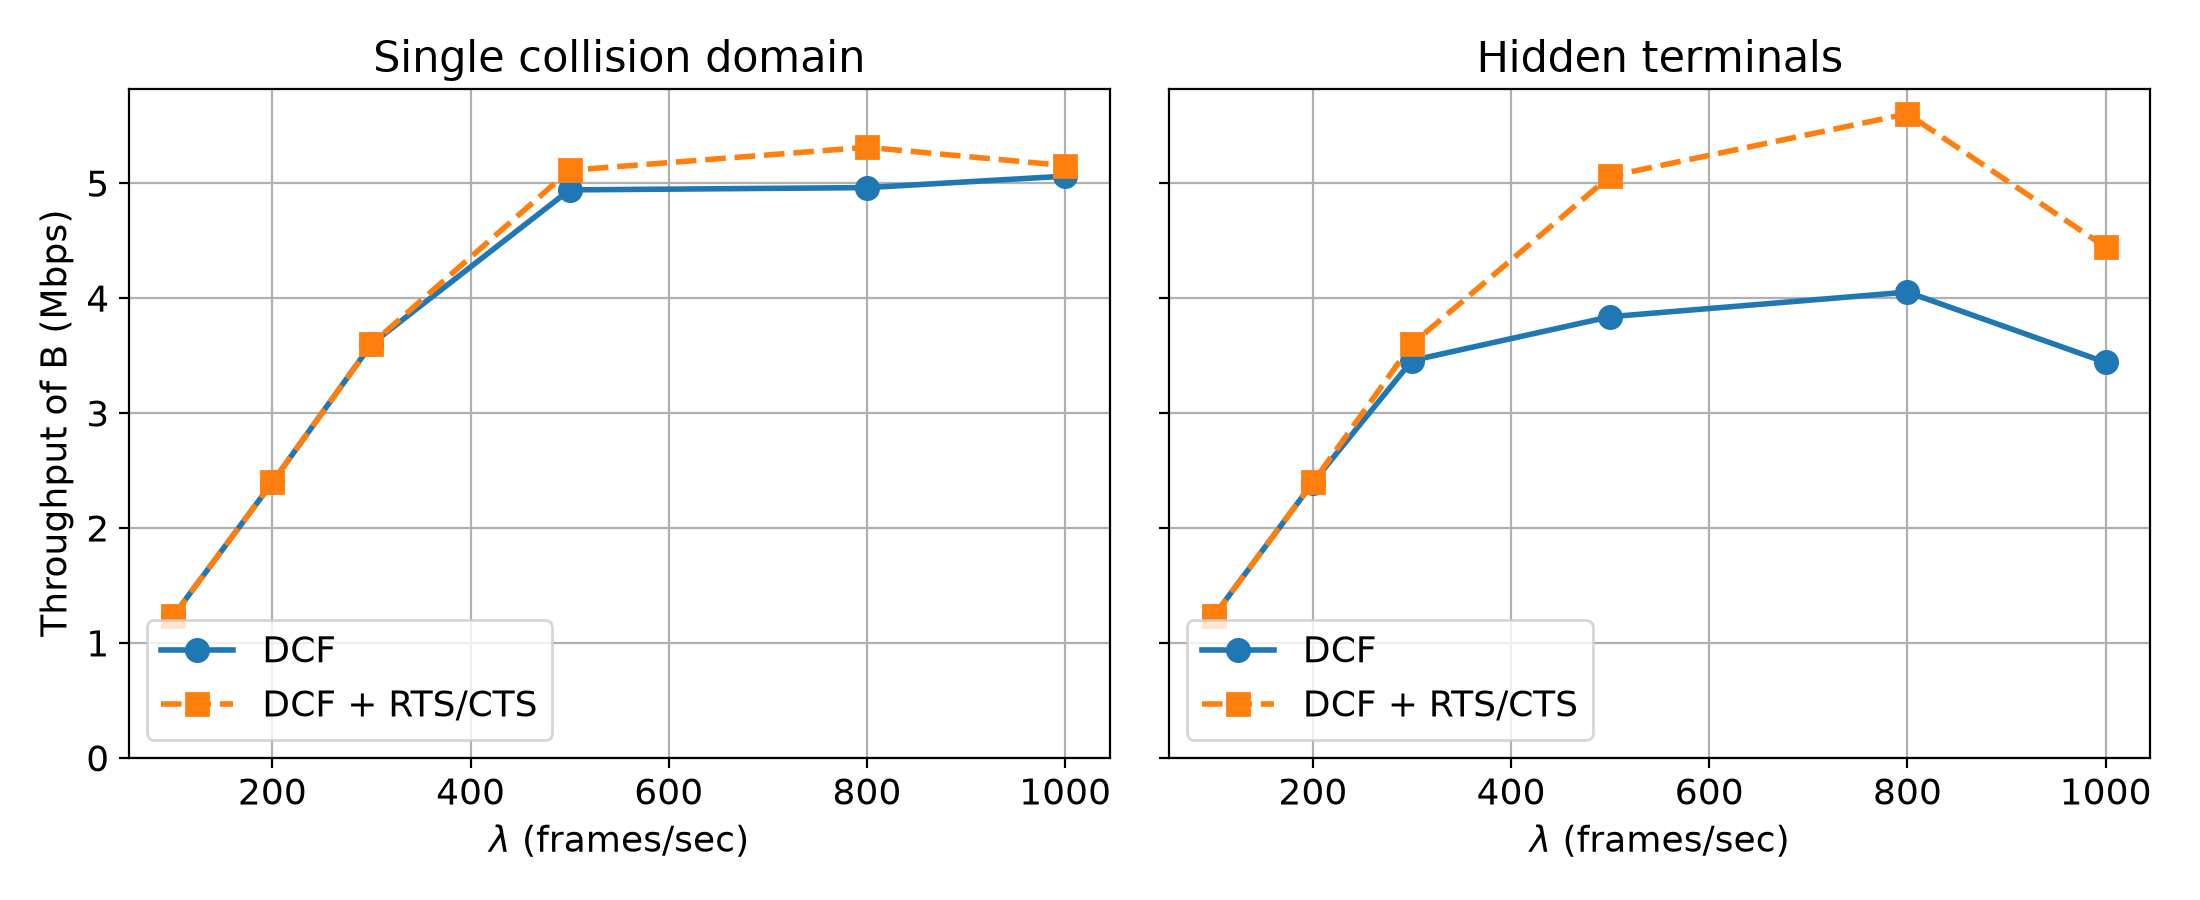
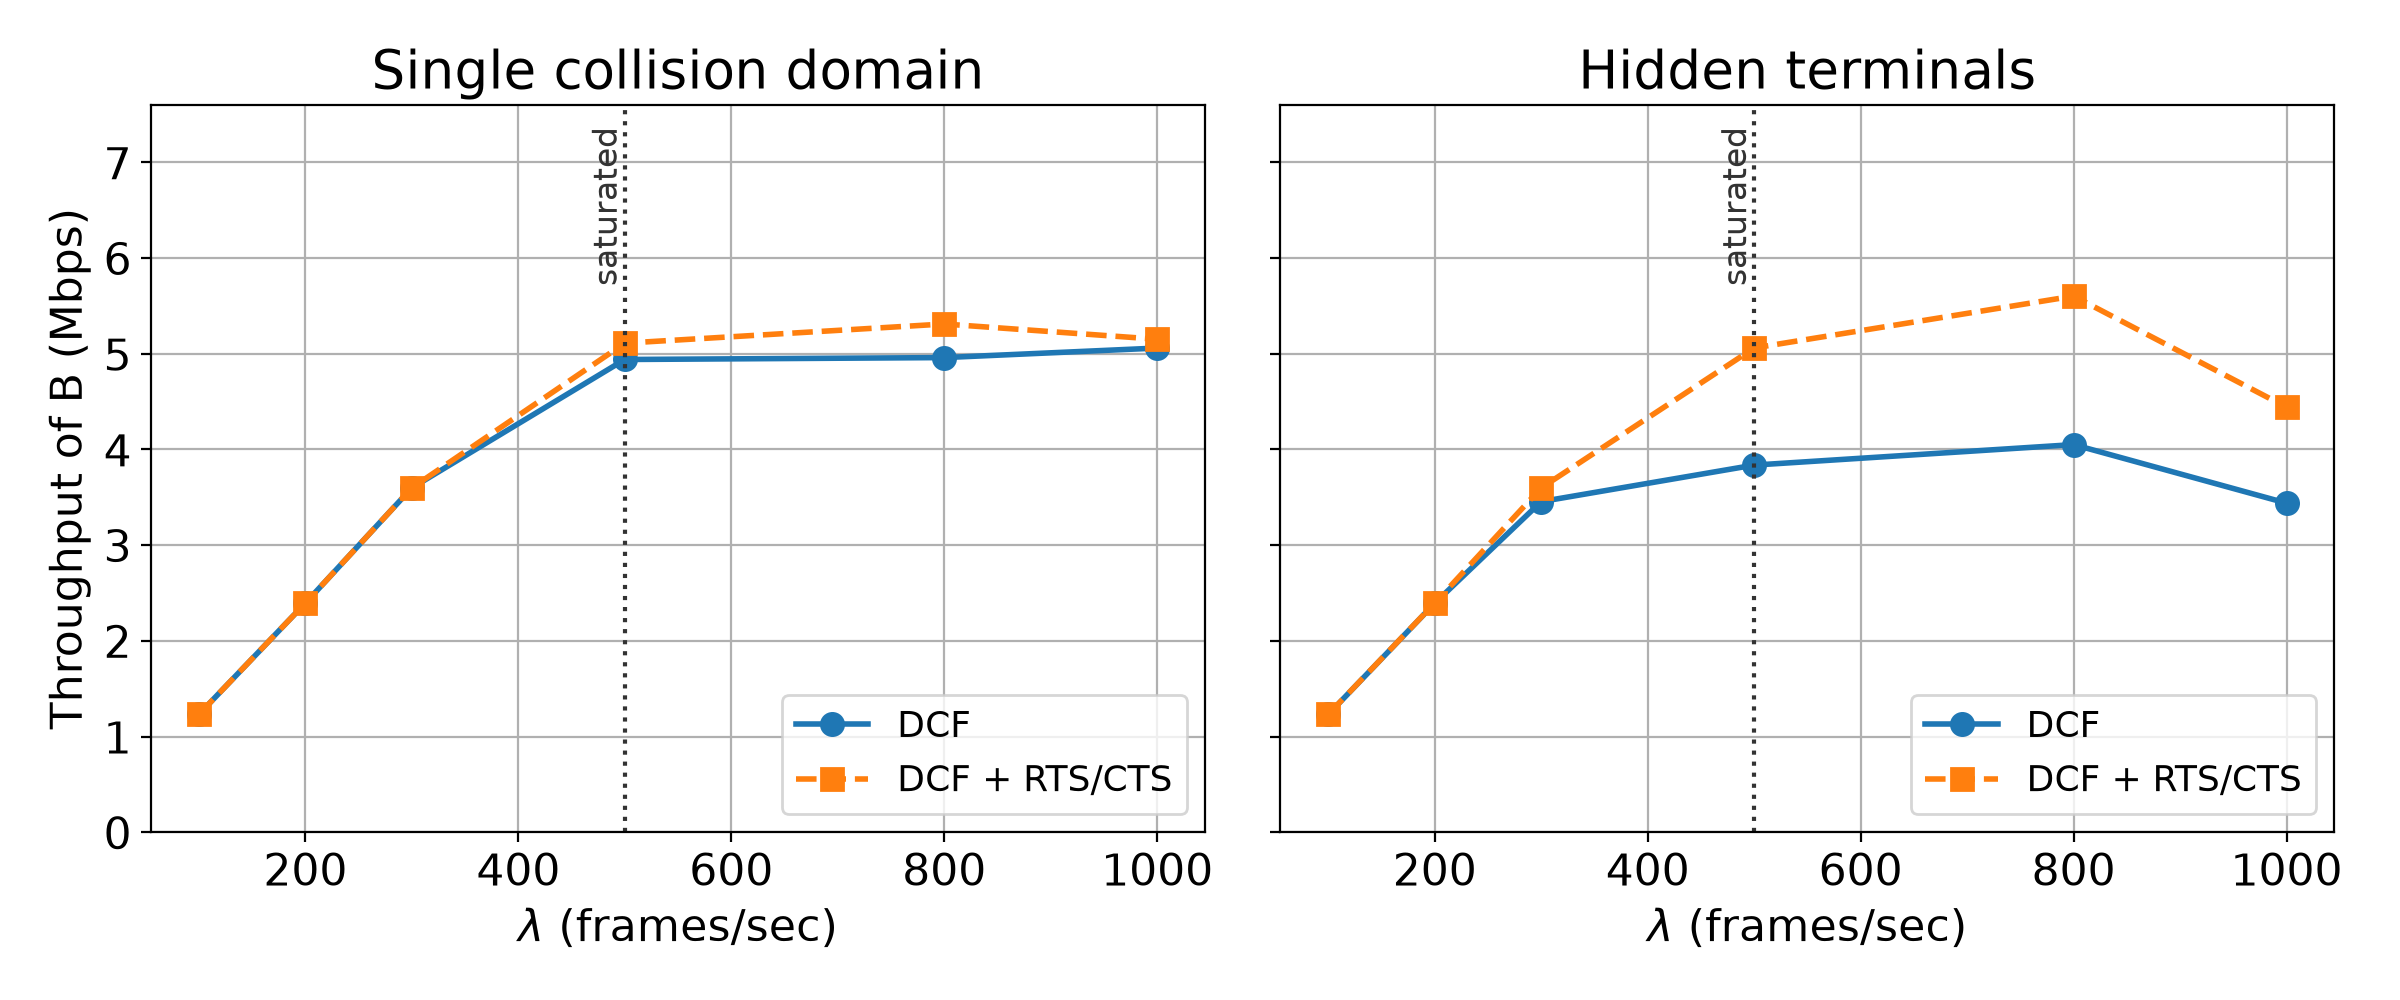
Add per-station metrics, saturation markers, and Part I delay plots
Record every backoff value a station draws and report per-station
collision probability and mean drawn backoff in results/part1.csv.
Label where each Part I throughput curve saturates relative to the
offered load, and add a station A versus station B throughput figure
and a mean packet delay figure. Enlarge fonts and figure sizes across
all plots and regenerate the figures.

diff --git a/experiments/part1.py b/experiments/part1.py
@@ -1,7 +1,8 @@
 """Part I: two-station CSMA/CA with and without RTS/CTS.
 
 Produces required plots 1 and 2: per-station throughput and collision
-probability versus lambda, for both topologies.
+probability versus lambda, for both topologies. Also produces a station A
+versus station B throughput comparison and mean packet delay versus lambda.
 
 Run with: python -m experiments.part1
 """
@@ -10,6 +11,7 @@ import matplotlib.pyplot as plt
 
 from macsim import config, plotting
 from macsim.dcf import Topology, simulate_dcf
+from macsim.metrics import offered_load_mbps
 
 from .common import averaged, series, write_csv
 
@@ -18,39 +20,76 @@ TOPOLOGIES = {
     Topology.HIDDEN_TERMINALS: "Hidden terminals",
 }
 PROTOCOLS = {"DCF": False, "DCF + RTS/CTS": True}
+STATIONS = ["A", "B"]
+RATES = config.PART1_ARRIVAL_RATES
+OFFERED = [offered_load_mbps(rate) for rate in RATES]  # per station
 
 
 def run() -> list[dict]:
     rows = []
     for topology in TOPOLOGIES:
         for protocol, rts_cts in PROTOCOLS.items():
-            for rate in config.PART1_ARRIVAL_RATES:
+            for rate in RATES:
                 m = averaged(simulate_dcf, num_stations=2, arrival_rate=rate, topology=topology, rts_cts=rts_cts)
-                rows.append(
-                    {
-                        "topology": topology.value,
-                        "protocol": protocol,
-                        "lambda": rate,
-                        "throughput_A_mbps": m["station_throughputs_mbps"][0],
-                        "throughput_B_mbps": m["station_throughputs_mbps"][1],
-                        "collision_probability": m["collision_probability"],
-                    }
-                )
+                row = {"topology": topology.value, "protocol": protocol, "lambda": rate}
+                for i, s in enumerate(STATIONS):
+                    row[f"throughput_{s}_mbps"] = m["station_throughputs_mbps"][i]
+                row["collision_probability"] = m["collision_probability"]
+                for i, s in enumerate(STATIONS):
+                    row[f"collision_probability_{s}"] = m["station_collision_probabilities"][i]
+                for i, s in enumerate(STATIONS):
+                    row[f"mean_backoff_{s}_slots"] = m["station_mean_backoffs"][i]
+                row["mean_delay_ms"] = m["mean_delay_ms"]
+                rows.append(row)
     return rows
 
 
-def plot(rows: list[dict], key: str, ylabel: str, name: str) -> None:
+def throughput_ylim(rows: list[dict]) -> float:
+    """Common upper y limit for the throughput figures, with headroom for the saturation labels."""
+    return 1.3 * max(row[f"throughput_{s}_mbps"] for row in rows for s in STATIONS)
+
+
+def plot(rows: list[dict], key: str, ylabel: str, name: str, saturation: bool = False, log: bool = False) -> None:
     """One panel per topology, one line per protocol."""
-    fig, axes = plt.subplots(1, 2, figsize=(11, 4.5), sharey=True)
+    fig, axes = plt.subplots(1, 2, figsize=(12, 5), sharey=True)
     for ax, (topology, title) in zip(axes, TOPOLOGIES.items()):
-        for protocol in PROTOCOLS:
-            y = series(rows, key, topology=topology.value, protocol=protocol)
-            ax.plot(config.PART1_ARRIVAL_RATES, y, label=protocol, **plotting.STYLES[protocol])
+        curves = {p: series(rows, key, topology=topology.value, protocol=p) for p in PROTOCOLS}
+        for protocol, y in curves.items():
+            ax.plot(RATES, y, label=protocol, **plotting.STYLES[protocol])
+        if saturation:
+            plotting.mark_saturation(ax, RATES, curves, OFFERED)
         ax.set_title(title)
         ax.set_xlabel(r"$\lambda$ (frames/sec)")
-        ax.legend()
+        ax.legend(loc="lower right" if saturation else "best")
     axes[0].set_ylabel(ylabel)
-    axes[0].set_ylim(bottom=0)
+    if log:
+        axes[0].set_yscale("log")
+    elif saturation:
+        axes[0].set_ylim(0, throughput_ylim(rows))
+    else:
+        axes[0].set_ylim(bottom=0)
+    plotting.save(fig, name)
+
+
+def plot_stations(rows: list[dict], name: str) -> None:
+    """One panel per protocol and topology, one line per station."""
+    fig, axes = plt.subplots(2, 2, figsize=(12, 9), sharex=True, sharey=True)
+    for row_axes, protocol in zip(axes, PROTOCOLS):
+        for ax, (topology, title) in zip(row_axes, TOPOLOGIES.items()):
+            curves = {
+                f"Station {s}": series(rows, f"throughput_{s}_mbps", topology=topology.value, protocol=protocol)
+                for s in STATIONS
+            }
+            for label, y in curves.items():
+                ax.plot(RATES, y, label=label, **plotting.STATION_STYLES[label])
+            plotting.mark_saturation(ax, RATES, curves, OFFERED, plotting.STATION_STYLES)
+            ax.set_title(f"{title}, {protocol}", fontsize=15)
+            ax.legend(loc="lower right")
+    for ax in axes[-1]:
+        ax.set_xlabel(r"$\lambda$ (frames/sec)")
+    for ax in axes[:, 0]:
+        ax.set_ylabel("Throughput (Mbps)")
+    axes[0, 0].set_ylim(0, throughput_ylim(rows))
     plotting.save(fig, name)
 
 
@@ -58,9 +97,11 @@ def main() -> None:
     plotting.apply_style()
     rows = run()
     write_csv("part1", rows)
-    plot(rows, "throughput_A_mbps", "Throughput of A (Mbps)", "part1_throughput_A")
-    plot(rows, "throughput_B_mbps", "Throughput of B (Mbps)", "part1_throughput_B")
+    plot(rows, "throughput_A_mbps", "Throughput of A (Mbps)", "part1_throughput_A", saturation=True)
+    plot(rows, "throughput_B_mbps", "Throughput of B (Mbps)", "part1_throughput_B", saturation=True)
+    plot_stations(rows, "part1_throughput_stations")
     plot(rows, "collision_probability", "Collision probability", "part1_collision")
+    plot(rows, "mean_delay_ms", "Mean packet delay (ms)", "part1_delay", log=True)
 
 
 if __name__ == "__main__":

diff --git a/macsim/plotting.py b/macsim/plotting.py
@@ -7,6 +7,8 @@ import matplotlib
 matplotlib.use("Agg")
 import matplotlib.pyplot as plt  # noqa: E402
 
+from . import config  # noqa: E402
+
 FIGURES_DIR = Path(__file__).resolve().parent.parent / "figures"
 
 # Plot kwargs per series; distinct markers and line styles for grayscale.
@@ -25,6 +27,11 @@ LOAD_STYLES = {
     800: dict(color="C1", linestyle="--", marker="s"),
 }
 
+# Part I figures that compare the two stations use one fixed color per station.
+STATION_STYLES = {
+    "Station A": dict(color="navy", linestyle="-", marker="o"),
+    "Station B": dict(color="crimson", linestyle="--", marker="s"),
+}
 
 def apply_style() -> None:
     """Set global rcParams (line width, marker size, font sizes, grid)."""
@@ -32,12 +39,42 @@ def apply_style() -> None:
         {
             "lines.linewidth": 2,
             "lines.markersize": 8,
-            "font.size": 13,
+            "font.size": 16,
+            "legend.fontsize": 13,
             "axes.grid": True,
             "figure.autolayout": True,
             "savefig.dpi": 200,
         }
     )
+
+
+def saturation_index(throughput, offered) -> int | None:
+    """Index of the first point where throughput < SATURATION_FRACTION * offered load."""
+    for k, (t, o) in enumerate(zip(throughput, offered)):
+        if t < config.SATURATION_FRACTION * o:
+            return k
+    return None
+
+
+def mark_saturation(ax, x, curves: dict, offered, styles: dict = STYLES) -> None:
+    """Label where each throughput curve saturates relative to the offered load.
+
+    `curves` maps a series label to its throughput values. A label takes the
+    color of its curve, or dark gray when several curves saturate at the same x.
+    """
+    points = {}
+    for label, y in curves.items():
+        k = saturation_index(y, offered)
+        if k is not None:
+            points.setdefault(x[k], []).append(label)
+    for xs, labels in points.items():
+        alone = len(labels) == 1 and len(curves) > 1
+        color = styles[labels[0]]["color"] if alone else "0.2"
+        ax.axvline(xs, color=color, linestyle=":", linewidth=1.5)
+        ax.text(
+            xs, 0.97, "saturated", color=color, fontsize=12, rotation=90,
+            ha="right", va="top", transform=ax.get_xaxis_transform(),
+        )
 
 
 def save(fig, name: str) -> None:

diff --git a/macsim/metrics.py b/macsim/metrics.py
@@ -16,7 +16,13 @@ class Results:
     attempts: list[int] = field(default_factory=list)
     collisions: list[int] = field(default_factory=list)
     delays: list[list[float]] = field(default_factory=list)  # slots, per station
+    backoffs: list[list[int]] = field(default_factory=list)  # drawn backoff values, per station
     trace: list[tuple] = field(default_factory=list)  # (slot, node, event), if requested
+
+
+def offered_load_mbps(rate: float) -> float:
+    """Offered load, in Mbps, of an arrival rate in frames/sec."""
+    return rate * config.DATA_FRAME_BITS / 1e6
 
 
 def station_throughputs_mbps(results: Results) -> list[float]:
@@ -34,6 +40,16 @@ def collision_probability(results: Results) -> float:
     """Collided attempts / total transmission attempts (Eq. 3)."""
     attempts = sum(results.attempts)
     return sum(results.collisions) / attempts if attempts else 0.0
+
+
+def station_collision_probabilities(results: Results) -> list[float]:
+    """Collided attempts / transmission attempts for each station."""
+    return [c / a if a else 0.0 for c, a in zip(results.collisions, results.attempts)]
+
+
+def station_mean_backoffs(results: Results) -> list[float]:
+    """Mean drawn backoff value, in slots, for each station."""
+    return [float(np.mean(b)) if len(b) else float("nan") for b in results.backoffs]
 
 
 def _all_delays_ms(results: Results) -> np.ndarray:
@@ -65,6 +81,8 @@ def summarize(results: Results) -> dict:
         "station_throughputs_mbps": throughputs,
         "throughput_mbps": sum(throughputs),
         "collision_probability": collision_probability(results),
+        "station_collision_probabilities": station_collision_probabilities(results),
+        "station_mean_backoffs": station_mean_backoffs(results),
         "mean_delay_ms": mean_delay_ms(results),
         "p95_delay_ms": p95_delay_ms(results),
         "jain_fairness": jain_fairness(throughputs),

diff --git a/tests/test_metrics.py b/tests/test_metrics.py
@@ -5,7 +5,14 @@ import pytest
 
 from macsim import config
 from macsim.dcf import Topology, simulate_dcf
-from macsim.metrics import Results, collision_probability, jain_fairness, network_throughput_mbps
+from macsim.metrics import (
+    Results,
+    collision_probability,
+    jain_fairness,
+    mean_delay_ms,
+    network_throughput_mbps,
+    station_throughputs_mbps,
+)
 from macsim.ofdma import simulate_ofdma
 from macsim.traffic import poisson_arrivals
 
@@ -39,6 +46,22 @@ def test_light_load_delivers_offered_traffic():
     r = simulate_dcf(5, 20, seed=0)
     offered_mbps = 5 * 20 * config.DATA_FRAME_BITS / 1e6
     assert network_throughput_mbps(r) == pytest.approx(offered_mbps, rel=0.1)
+
+
+@pytest.mark.parametrize("topology", list(Topology))
+@pytest.mark.parametrize("rts_cts", [False, True])
+def test_unsaturated_stations_each_deliver_offered_load(topology, rts_cts):
+    # lambda = 100 frames/sec * 12,000 bits = 1.2 Mbps per station, far below capacity.
+    r = simulate_dcf(2, 100, topology=topology, rts_cts=rts_cts, seed=0)
+    assert station_throughputs_mbps(r) == pytest.approx([1.2, 1.2], rel=0.1)
+
+
+def test_saturated_stations_deliver_less_with_longer_delay():
+    # lambda = 1000 frames/sec offers 12 Mbps per station: queues build up.
+    light = simulate_dcf(2, 100, seed=0)
+    heavy = simulate_dcf(2, 1000, seed=0)
+    assert all(t < 0.6 * 12 for t in station_throughputs_mbps(heavy))
+    assert mean_delay_ms(heavy) > 100 * mean_delay_ms(light)
 
 
 def test_ofdma_throughput_does_not_exceed_channel_capacity():

diff --git a/experiments/part2.py b/experiments/part2.py
@@ -41,24 +41,24 @@ def main() -> None:
     rows = run()
     write_csv("part2", rows)
 
-    fig, ax = plt.subplots(figsize=(6.5, 4.5))
+    fig, ax = plt.subplots(figsize=(7, 5))
     plot_vs_n(ax, rows, "throughput_mbps", r"$T_\mathrm{network}$ (Mbps)")
     ax.set_ylim(bottom=0)
     plotting.save(fig, "part2_throughput")
 
-    fig, ax = plt.subplots(figsize=(6.5, 4.5))
+    fig, ax = plt.subplots(figsize=(7, 5))
     plot_vs_n(ax, rows, "collision_probability", r"$P_\mathrm{collision}$")
     ax.set_ylim(bottom=0)
     plotting.save(fig, "part2_collision")
 
-    fig, axes = plt.subplots(1, 2, figsize=(11, 4.5), sharey=True)
+    fig, axes = plt.subplots(1, 2, figsize=(12, 5), sharey=True)
     plot_vs_n(axes[0], rows, "mean_delay_ms", "Mean packet delay (ms)")
     plot_vs_n(axes[1], rows, "p95_delay_ms", "95th-percentile packet delay (ms)")
     axes[0].set_yscale("log")
     axes[1].tick_params(labelleft=True)
     plotting.save(fig, "part2_delay")
 
-    fig, ax = plt.subplots(figsize=(6.5, 4.5))
+    fig, ax = plt.subplots(figsize=(7, 5))
     plot_vs_n(ax, rows, "jain_fairness", "Jain's fairness index $J$")
     ax.set_ylim(0, 1.05)
     plotting.save(fig, "part2_fairness")

diff --git a/macsim/station.py b/macsim/station.py
@@ -17,6 +17,7 @@ class Station:
     collisions: int = 0
     successes: int = 0
     delays: list = field(default_factory=list)  # t_ACK - t_arrival per delivered frame, in slots
+    backoff_draws: list = field(default_factory=list)  # every backoff value drawn, in slots
 
     # Backoff values used before falling back to random draws (deterministic tests).
     preset_backoffs: deque = field(default_factory=deque)
@@ -35,6 +36,7 @@ class Station:
             self.backoff = self.preset_backoffs.popleft()
         else:
             self.backoff = int(rng.integers(0, self.cw))
+        self.backoff_draws.append(self.backoff)
 
     def on_collision(self, rng) -> None:
         """Binary exponential backoff: CW = min(2^k * CW0, CW_MAX)."""

diff --git a/experiments/part3.py b/experiments/part3.py
@@ -30,7 +30,7 @@ def run(n: int = config.OFDMA_COMPARISON_N) -> list[dict]:
 
 
 def plot(rows: list[dict], key: str, ylabel: str, name: str, log: bool = False) -> None:
-    fig, ax = plt.subplots(figsize=(6.5, 4.5))
+    fig, ax = plt.subplots(figsize=(7, 5))
     for method in METHODS:
         ax.plot(config.AGGREGATE_LOADS, series(rows, key, method=method), label=method, **plotting.STYLES[method])
     ax.set_xlabel(r"Aggregate load $\Lambda$ (frames/sec)")
@@ -38,7 +38,7 @@ def plot(rows: list[dict], key: str, ylabel: str, name: str, log: bool = False) 
     ax.set_ylabel(ylabel)
     if log:
         ax.set_yscale("log")
-    ax.legend(fontsize=10)
+    ax.legend(fontsize=11)
     plotting.save(fig, name)
 
 

diff --git a/macsim/config.py b/macsim/config.py
@@ -41,6 +41,11 @@ OFDMA_COMPARISON_N = 20
 # choice in the report.
 OFDMA_OVERHEAD_SLOTS = RTS_SLOTS + SIFS_SLOTS
 
+# --- Reporting ---
+# A curve is marked saturated at the first offered load where throughput falls
+# below this fraction of the offered load.
+SATURATION_FRACTION = 0.95
+
 # --- Reproducibility ---
 DEFAULT_SEED = 0
 NUM_RUNS = 5  # independent runs to average per data point

diff --git a/macsim/dcf.py b/macsim/dcf.py
@@ -94,6 +94,7 @@ class _DcfSim:
             attempts=[st.attempts for st in self.stations],
             collisions=[st.collisions for st in self.stations],
             delays=[st.delays for st in self.stations],
+            backoffs=[st.backoff_draws for st in self.stations],
             trace=self.trace or [],
         )
 

diff --git a/tests/test_dcf.py b/tests/test_dcf.py
@@ -38,6 +38,7 @@ def test_collision_between_a_and_b():
     assert r.collisions == [1, 1]
     assert r.successes == [1, 1]
     assert r.delays == [[216], [327]]
+    assert r.backoffs == [[3, 1], [3, 6]]
 
 
 def test_rts_collision_hidden_terminals():

diff --git a/macsim/ofdma.py b/macsim/ofdma.py
@@ -70,4 +70,5 @@ def simulate_ofdma(
         attempts=[st.attempts for st in stations],
         collisions=[0] * num_stations,
         delays=[st.delays for st in stations],
+        backoffs=[st.backoff_draws for st in stations],
     )

diff --git a/README.md b/README.md
@@ -12,7 +12,7 @@ macsim/            simulator package
   station.py       per-station state
   dcf.py           CSMA/CA, with optional RTS/CTS and hidden terminals
   ofdma.py         round-robin OFDMA scheduler
-  metrics.py       throughput, collision probability, delay, Jain's index
+  metrics.py       throughput, collision probability, delay, backoff, Jain's index
   plotting.py      shared figure style
 experiments/       one script per project part; each writes its plots to figures/
 tests/             deterministic verification cases
@@ -29,6 +29,8 @@ results/           generated CSV tables behind the plots
 - A frame is decoded only if nothing else the receiver can hear, and no transmission of its own, overlaps it. A hidden station that is sending its own RTS while the AP sends a CTS therefore misses the NAV.
 - An OFDMA opportunity lasts `overhead + K * 100 + SIFS + ACK` slots, where the overhead is a 2-slot trigger frame plus SIFS (`OFDMA_OVERHEAD_SLOTS`). OFDMA has no contention, so the AP starts an opportunity as soon as any station has a frame.
 - Each data point is the average of `NUM_RUNS` (5) independent seeds.
+- Each station records its attempts, successes, collisions, per-frame delays, and every backoff value it draws. `results/part1.csv` reports the per-station collision probability and mean drawn backoff.
+- In the Part I throughput figures, a curve is labeled "saturated" at the first sampled load where throughput falls below `SATURATION_FRACTION` (95%) of the offered load, so the true saturation point lies between that load and the previous one.
 
 ## Setup
 
@@ -41,7 +43,7 @@ pip install -r requirements.txt
 ## Usage
 
 ```
-python -m experiments.part1   # two-station CSMA/CA and RTS/CTS
+python -m experiments.part1   # two-station CSMA/CA and RTS/CTS (also A-versus-B throughput and delay)
 python -m experiments.part2   # dense DCF
 python -m experiments.part3   # DCF versus OFDMA
 pytest                        # verification cases
